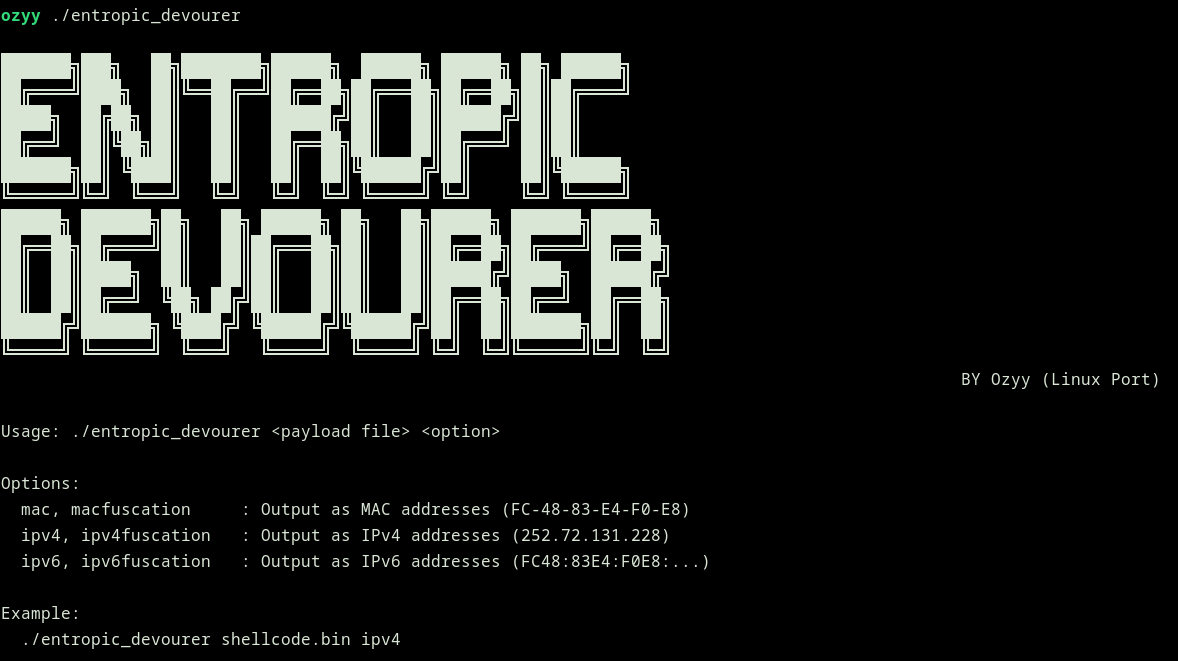
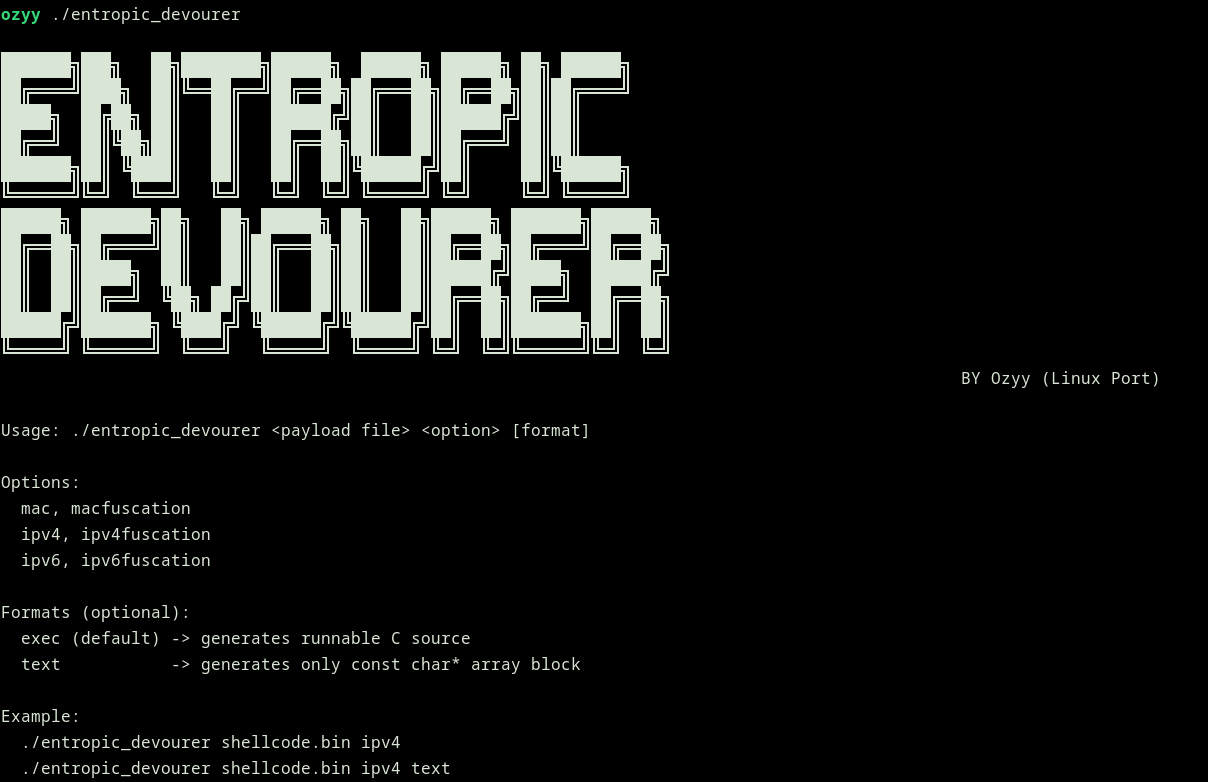
V.b 1.1.1

diff --git a/README.md b/README.md
@@ -41,8 +41,8 @@ Available options:
 
 Available formats:
 
-- `exec` (default): generate C source with decoder + execution flow
-- `text`: generate only the obfuscated block (`const char* ...[] = { ... };`)
+- `exec` or `c` (default): generate C source with decoder + execution flow
+- `text` or `txt`: generate only the obfuscated block (`const char* ...[] = { ... };`)
 
 Examples:
 
@@ -51,6 +51,7 @@ Examples:
 ./Entropic_Devourer/entropic_devourer shellcode.bin ipv6
 ./Entropic_Devourer/entropic_devourer shellcode.bin mac
 ./Entropic_Devourer/entropic_devourer shellcode.bin ipv4 text
+./Entropic_Devourer/entropic_devourer shellcode.bin ipv6 text
 ./Entropic_Devourer/entropic_devourer shellcode.bin mac text
 ```
 
